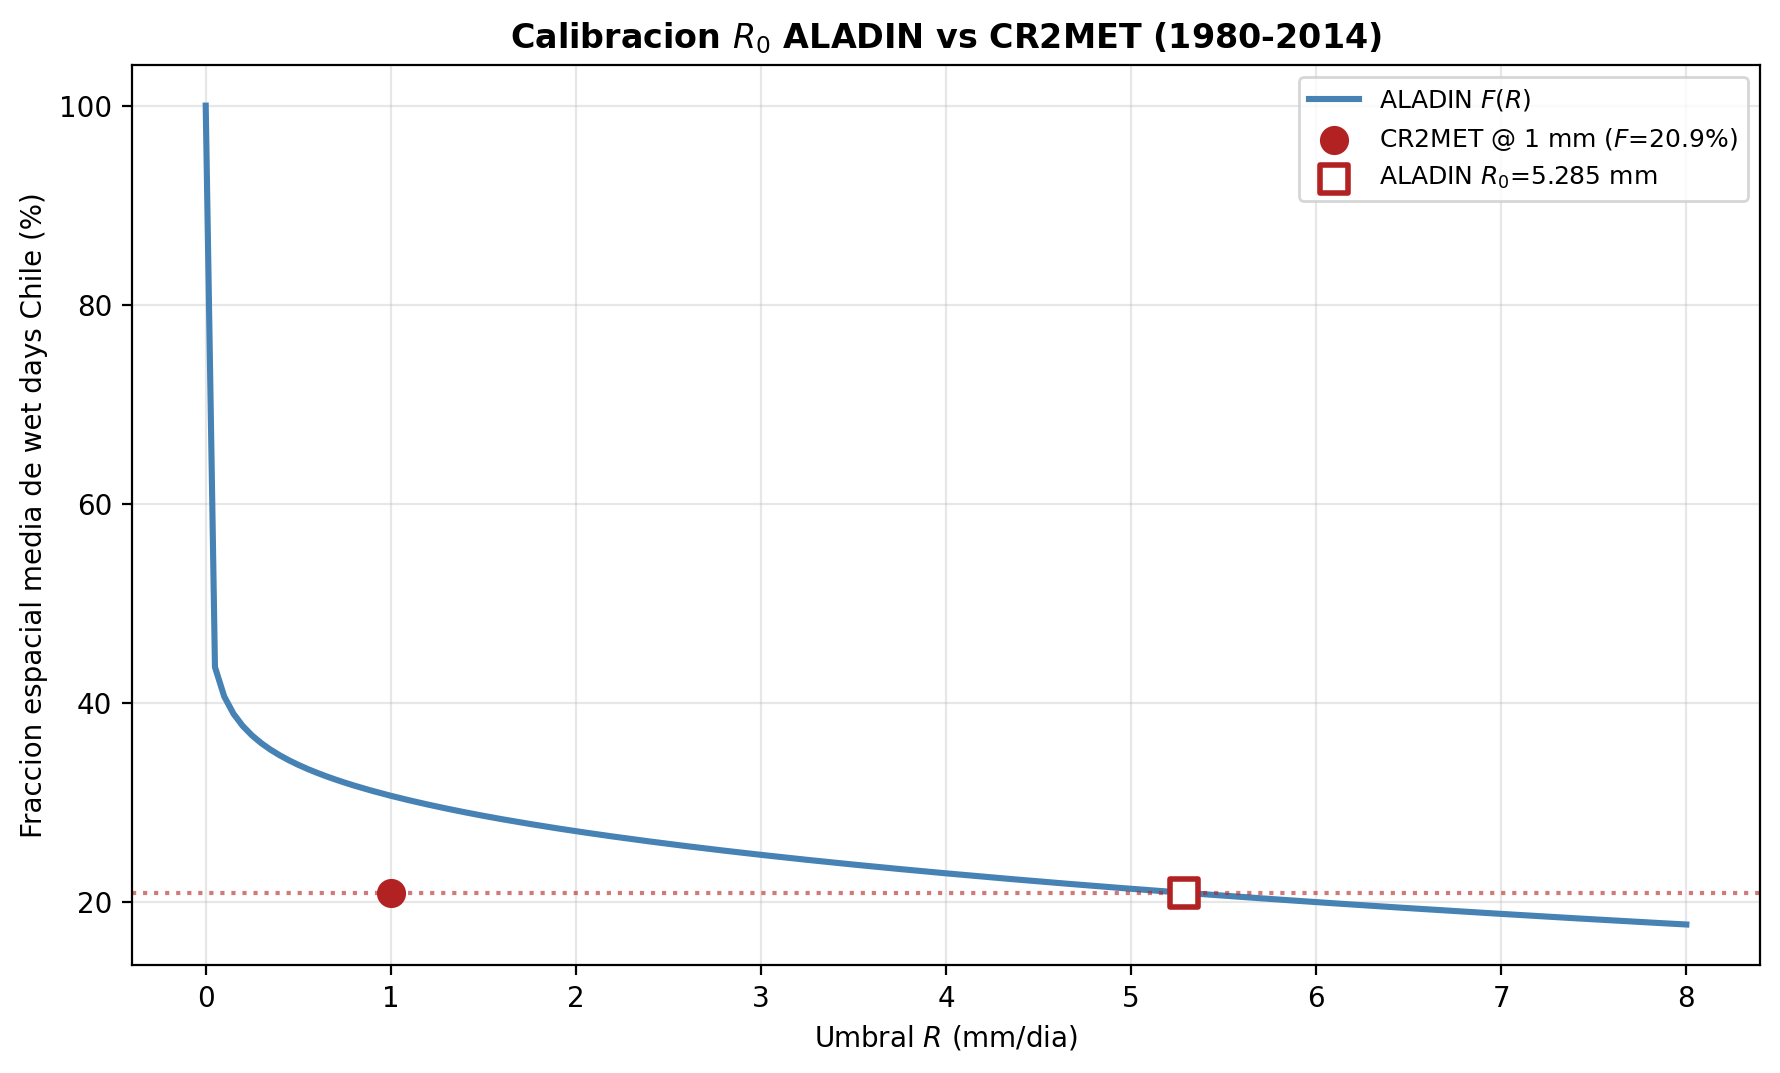
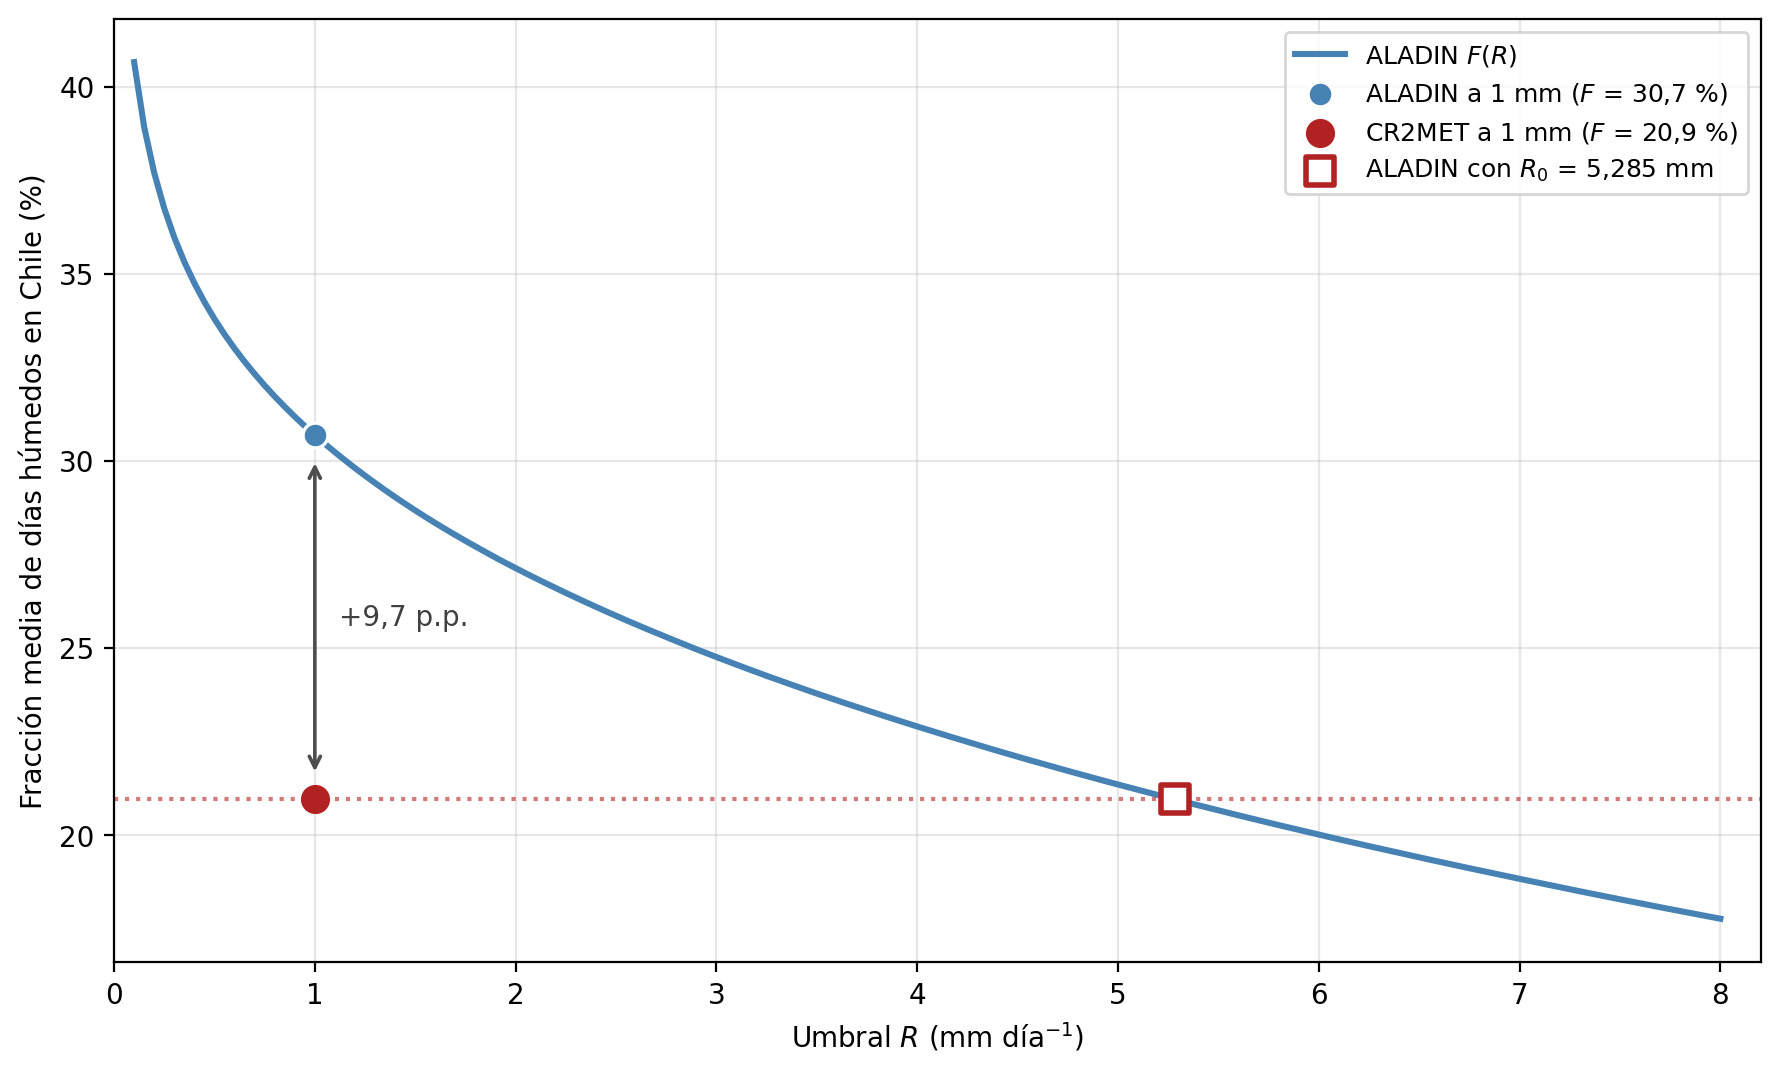
fix(fig3): curva de calibracion R0 mas legible
La curva F(R) parte en 0,1 mm (con R = 0 todo dia es humedo y la caida a 43 % era un artefacto),
se marca ALADIN a 1 mm con la flecha de +9,7 p.p. que menciona el caption, tildes y ejes en
espanol, sin titulo interno. Calculo en numpy en vez de 240 pasadas dask. R0 = 5,285 mm sin cambios.

diff --git a/_generar_fig03_calibracion_R0.py b/_generar_fig03_calibracion_R0.py
@@ -1,4 +1,4 @@
-"""Regenera fig_p6_ftau.png con notacion R0 (en vez de tau*)."""
+"""Figura 3: calibracion del umbral R0 de ALADIN frente a CR2MET a 1 mm (1980-2014)."""
 import warnings
 warnings.filterwarnings('ignore')
 
@@ -15,10 +15,9 @@ from shapely.ops import unary_union
 from shapely.prepared import prep
 
 ROOT = Path(__file__).resolve().parent
-OUTS = [
-    ROOT / 'presentacion_tesis' / 'figuras' / 'fig_p6_ftau.png',
-    ROOT / 'paper_figuras' / 'fig03_calibracion_R0_ftau.png',
-]
+OUTS = [ROOT / 'paper_figuras' / 'fig03_calibracion_R0_ftau.png']
+# Con R = 0 todo dia cuenta como humedo (pr >= 0): la curva parte en 0,1 mm para evitar ese artefacto.
+R_GRID = np.round(np.arange(0.1, 8.0001, 0.05), 3)
 
 
 def load_chile_geometry():
@@ -45,10 +44,9 @@ def chile_mask_aladin(lat2d, lon2d, geometry):
     ).reshape(lat2d.shape)
 
 
-def domain_fwet(pr, threshold, mask_da):
-    f = (pr >= threshold).mean('time') * 100
-    v = f.where(mask_da).values.ravel()
-    return float(np.nanmean(v[np.isfinite(v)]))
+def domain_fwet(pr, threshold):
+    """pr: array (tiempo, celdas). Media espacial (igual peso por celda) de la fraccion de dias pr >= R."""
+    return float(np.nanmean((pr >= threshold).mean(axis=0)) * 100)
 
 
 def main():
@@ -67,42 +65,52 @@ def main():
     )
 
     geom = load_chile_geometry()
-    mask = xr.DataArray(
-        chile_mask_aladin(pr_ala['lat'].values, pr_ala['lon'].values, geom),
-        dims=['y', 'x'],
-    )
+    mask = chile_mask_aladin(pr_ala['lat'].values, pr_ala['lon'].values, geom)
+    jj, ii = np.where(mask)
 
     print('Calculando F(R)...')
-    grid = np.linspace(0, 8, 161)
-    curve_ala = [domain_fwet(pr_ala, t, mask) for t in grid]
-    f_cr2_1 = domain_fwet(pr_cr2, 1.0, mask)
+    ala = pr_ala.values[:, jj, ii]
+    cr2 = pr_cr2.values[:, jj, ii]
+    curve_ala = [domain_fwet(ala, t) for t in R_GRID]
+    f_cr2_1 = domain_fwet(cr2, 1.0)
+    f_ala_1 = domain_fwet(ala, 1.0)
 
     lo, hi = 0.0, 15.0
     for _ in range(80):
         mid = 0.5 * (lo + hi)
-        if domain_fwet(pr_ala, mid, mask) > f_cr2_1:
+        if domain_fwet(ala, mid) > f_cr2_1:
             lo = mid
         else:
             hi = mid
     r0 = 0.5 * (lo + hi)
-    print(f'  F_CR2MET(1 mm) = {f_cr2_1:.2f}%')
+    print(f'  F_CR2MET(1 mm) = {f_cr2_1:.2f}% | F_ALADIN(1 mm) = {f_ala_1:.2f}%')
     print(f'  R0 = {r0:.3f} mm')
 
     fig, ax = plt.subplots(figsize=(9, 5.5))
-    ax.plot(grid, curve_ala, 'steelblue', lw=2.2, label=r'ALADIN $F(R)$')
+    ax.plot(R_GRID, curve_ala, 'steelblue', lw=2.2, label=r'ALADIN $F(R)$')
+    ax.scatter(
+        [1.0], [f_ala_1], s=80, facecolors='steelblue', edgecolors='white', linewidth=1.2, zorder=5,
+        label=f'ALADIN a 1 mm ($F$ = {f_ala_1:.1f} %)'.replace('.', ','),
+    )
     ax.scatter(
         [1.0], [f_cr2_1], s=90, c='firebrick', zorder=5,
-        label=f'CR2MET @ 1 mm ($F$={f_cr2_1:.1f}%)',
+        label=f'CR2MET a 1 mm ($F$ = {f_cr2_1:.1f} %)'.replace('.', ','),
     )
     ax.scatter(
         [r0], [f_cr2_1], s=100, facecolors='white', edgecolors='firebrick',
         linewidth=2, marker='s', zorder=5,
-        label=f'ALADIN $R_0$={r0:.3f} mm',
+        label=f'ALADIN con $R_0$ = {r0:.3f} mm'.replace('.', ','),
     )
     ax.axhline(f_cr2_1, color='firebrick', ls=':', alpha=0.6)
-    ax.set_xlabel(r'Umbral $R$ (mm/dia)')
-    ax.set_ylabel('Fraccion espacial media de wet days Chile (%)')
-    ax.set_title(r'Calibracion $R_0$ ALADIN vs CR2MET (1980-2014)', fontweight='bold')
+    ax.annotate(
+        '', xy=(1.0, f_cr2_1 + 0.6), xytext=(1.0, f_ala_1 - 0.6),
+        arrowprops=dict(arrowstyle='<->', color='0.3', lw=1.3),
+    )
+    ax.text(1.12, 0.5 * (f_cr2_1 + f_ala_1), f'+{f_ala_1 - f_cr2_1:.1f} p.p.'.replace('.', ',', 1),
+            va='center', fontsize=10, color='0.25')
+    ax.set_xlabel(r'Umbral $R$ (mm día$^{-1}$)')
+    ax.set_ylabel('Fracción media de días húmedos en Chile (%)')
+    ax.set_xlim(0, 8.2)
     ax.legend(fontsize=9)
     ax.grid(True, alpha=0.3)
     plt.tight_layout()
